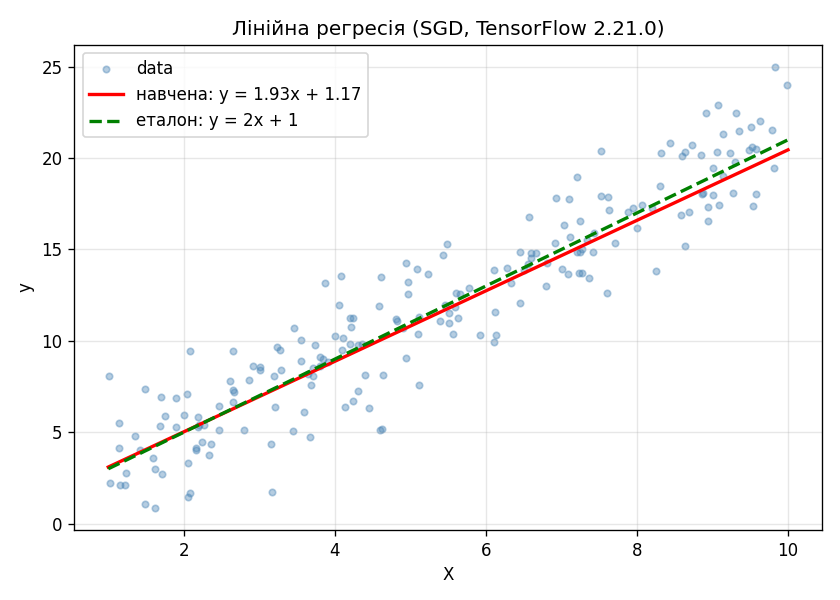
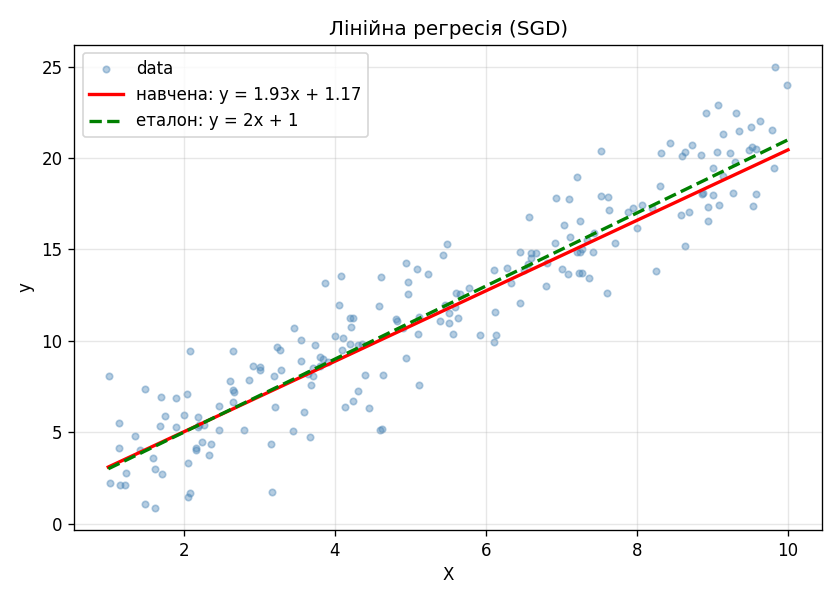
task 8 fix

Changed region(s): [[0.2786, 0.03, 0.8048, 0.06]]

diff --git a/LR_8/src/LR_8_task_1.py b/LR_8/src/LR_8_task_1.py
@@ -31,9 +31,6 @@ b = tf.Variable(tf.zeros((1,)), name="bias")
 optimizer = tf.keras.optimizers.SGD(learning_rate=1e-4)
 
 display_step = 2000
-print(f"TensorFlow {tf.__version__} — навчання y = k·x + b")
-print(f"n_samples={n_samples}, batch_size={batch_size}, num_steps={num_steps}")
-print()
 
 for i in range(num_steps):
     indices = np.random.choice(n_samples, batch_size, replace=False)
@@ -69,7 +66,7 @@ plt.plot(xs, k_val * xs + b_val, "r-", linewidth=2,
          label=f"навчена: y = {k_val:.2f}x + {b_val:.2f}")
 plt.plot(xs, 2 * xs + 1, "g--", linewidth=2, label="еталон: y = 2x + 1")
 plt.xlabel("X"); plt.ylabel("y")
-plt.title(f"Лінійна регресія (SGD, TensorFlow {tf.__version__})")
+plt.title("Лінійна регресія (SGD)")
 plt.legend()
 plt.grid(True, alpha=0.3)
 plt.tight_layout()
